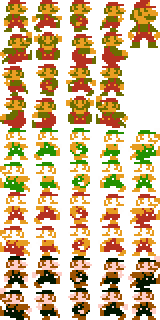
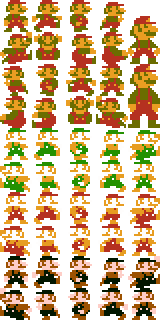
add mario transform animation

Changed region(s): [[0.7812, 0.0, 1.0, 0.4062]]

diff --git a/sprites/player.js b/sprites/player.js
@@ -6,17 +6,20 @@ const MARIO_WALK_RIGHT = 3;
 const MARIO_JUMP_RIGHT = 4;
 const MARIO_JUMP_LEFT = 5;
 const MARIO_DIE = 6;
+const MARIO_TRANSFORM = 0;
 
 const MINI_MARIO = 10;
 const SUPER_MARIO = 11;
 
 const MARIO_FLAG = 13;
 
-const STAR_TIME = 10;
+const STAR_TIME = 10; //seconds
+const TRANSFORM_TIME = 2 //seconds
 
 function Player(x, y, map) {
 	// Loading spritesheets
 	var mario = new Texture("imgs/mario.png");
+	var supermario = new Texture("imgs/supermario.png");
 	this.jumpAudio = AudioFX('sounds/smb_jump-super.wav');
 	this.diedMusic = AudioFX('sounds/smb_mariodie.wav');
 	this.stompMusic = AudioFX('sounds/smb_stomp.wav');
@@ -28,28 +31,13 @@ function Player(x, y, map) {
 	this.lives = 1;
 	this.state = MINI_MARIO;
 	this.transforming = false;
+	this.Btransform = false;
+	this.transformTime = 0;
 	this.starTime = 0;
 	this.enableStarTime = false;
 
 	// Prepare Mario sprite & its animations
 	this.sprite = new Sprite(x, y, 32, 32, 5, mario);
-
-	//miniMario to superMario
-	//this.sprite.addAnimation();
-	// this.sprite.addKeyframe(SUPER_MARIO, [0, 6 * 32, 32, 32]);
-	// this.sprite.addKeyframe(SUPER_MARIO, [0, 7 * 32, 32, 48]);
-	// this.sprite.addKeyframe(SUPER_MARIO, [0, 6 * 32, 32, 32]);
-	// this.sprite.addKeyframe(SUPER_MARIO, [0, 7 * 32, 32, 48]);
-	// this.sprite.addKeyframe(SUPER_MARIO, [0, 6 * 32, 32, 32]);
-	// this.sprite.addKeyframe(SUPER_MARIO, [0, 7 * 32, 32, 48]);
-	// this.sprite.addKeyframe(SUPER_MARIO, [0, 4 * 32, 32, 32 * 2]);
-	// this.sprite.addKeyframe(SUPER_MARIO, [0, 7 * 32, 32, 48]);
-	// this.sprite.addKeyframe(SUPER_MARIO, [0, 4 * 32, 32, 32 * 2]);
-	// this.sprite.addKeyframe(SUPER_MARIO, [0, 7 * 32, 32, 48]);
-	// this.sprite.addKeyframe(SUPER_MARIO, [0, 6 * 32, 32, 32]);
-	// this.sprite.addKeyframe(SUPER_MARIO, [0, 7 * 32, 32, 48]);
-	// this.sprite.addKeyframe(SUPER_MARIO, [0, 4 * 32, 32, 32 * 2]);
-	// this.sprite.addKeyframe(SUPER_MARIO, [0, 4 * 32, 32, 32 * 2]);
 
 	this.sprite.addAnimation();
 	this.sprite.addKeyframe(MARIO_STAND_LEFT, [96, 64, 32, 32]);
@@ -79,6 +67,25 @@ function Player(x, y, map) {
 	this.sprite.addAnimation();
 	this.sprite.addKeyframe(MARIO_FLAG, [32, 64, 32, 32]);//xinlei: si no funciona, puede ser pq array_animations[MARIOF_FLAG] no existe, OVERFLOW
 
+	this.transformSprite = new Sprite(x, y - 32, 32, 64, 7, supermario);
+	this.transformSpriteActive = false;
+	//miniMario to superMario
+	this.transformSprite.addAnimation();//add slot number 0
+	this.transformSprite.addKeyframe(MARIO_TRANSFORM, [32, 64 * 8, 32, 64]);//s
+	this.transformSprite.addKeyframe(MARIO_TRANSFORM, [0, 64 * 8, 32, 64]);//m
+	this.transformSprite.addKeyframe(MARIO_TRANSFORM, [32, 64 * 8, 32, 64]);//s
+	this.transformSprite.addKeyframe(MARIO_TRANSFORM, [0, 64 * 8, 32, 64]);//m
+	this.transformSprite.addKeyframe(MARIO_TRANSFORM, [32, 64 * 8, 32, 32]);//s
+	this.transformSprite.addKeyframe(MARIO_TRANSFORM, [0, 64 * 8, 32, 64]);//m
+	this.transformSprite.addKeyframe(MARIO_TRANSFORM, [0, 0, 32, 64]);//b
+	// this.sprite.addKeyframe(MARIO_TRANSFORM, [0, 7 * 32, 32, 48]);//m
+	// this.sprite.addKeyframe(MARIO_TRANSFORM, [0, 4 * 32, 32, 32 * 2]);//b
+	// this.sprite.addKeyframe(MARIO_TRANSFORM, [0, 7 * 32, 32, 48]);//m
+	// this.sprite.addKeyframe(MARIO_TRANSFORM, [0, 6 * 32, 32, 32]);//s
+	// this.sprite.addKeyframe(MARIO_TRANSFORM, [0, 7 * 32, 32, 48]);//m
+	// this.sprite.addKeyframe(MARIO_TRANSFORM, [0, 4 * 32, 32, 32 * 2]);//b
+	// this.sprite.addKeyframe(MARIO_TRANSFORM, [0, 4 * 32, 32, 32 * 2]);//b
+	this.transformSprite.setAnimation(MARIO_TRANSFORM);
 	this.sprite.setAnimation(MARIO_STAND_RIGHT);
 
 	// Set tilemap for collisions
@@ -110,6 +117,16 @@ var releaseDecel = 360;
 var maxWalkSpeed = 120;
 var maxRunSpeed = 240;
 
+
+Player.prototype.transformAnimation = function () {
+	this.timeFreeze = true;
+	this.transformSpriteActive = true;
+	this.active = false;
+	this.transformSprite.x = this.sprite.x;
+	this.transformSprite.y = this.sprite.y - 32;
+	this.transforming = false;
+}
+
 Player.prototype.setStarTime = function (deltaTime) {
 	var deltaSeconds = deltaTime / 1000;
 	if (this.enableStarTime) {
@@ -117,6 +134,17 @@ Player.prototype.setStarTime = function (deltaTime) {
 		console.log("star time: " + this.starTime);
 		if (this.starTime >= STAR_TIME)
 			this.changeStarAnimation(false);
+	}
+}
+
+Player.prototype.setFreezeTime = function (deltaTime) {
+	var deltaSeconds = deltaTime / 1000;
+	this.transformTime += deltaSeconds;
+	console.log("transform time: " + this.transformTime);
+	if (this.transformTime >= TRANSFORM_TIME) {	//transform time
+		this.timeFreeze = false;
+		this.Btransform = true;
+		this.transformSpriteActive = false;
 	}
 }
 
@@ -195,8 +223,13 @@ Player.prototype.changeStarAnimation = function (bStar) {
 	}
 }
 
-
 Player.prototype.update = function (deltaTime) {
+	this.setStarTime(deltaTime);
+
+	if (this.timeFreeze) {
+		this.setFreezeTime(deltaTime);
+	}
+	this.transformSpriteActive && this.transformSprite.update(deltaTime);
 
 	if (this.active) {
 		if (this.lives == 0) { // problem: always reinitiate to dying
@@ -479,8 +512,8 @@ Player.prototype.update = function (deltaTime) {
 }
 
 Player.prototype.draw = function () {
-	// this.supermario.draw();
 	this.active && this.sprite.draw();
+	this.transformSpriteActive && this.transformSprite.draw();
 }
 
 Player.prototype.collisionBox = function () {

diff --git a/sprites/superPlayer.js b/sprites/superPlayer.js
@@ -8,6 +8,7 @@ const SMARIO_JUMP_LEFT = 5;
 const SMARIO_DOWN_RIGHT = 6;
 const SMARIO_DOWN_LEFT = 7;
 
+
 function SuperPlayer(x, y, map) {
 	// Loading spritesheets
 	var mario = new Texture("imgs/supermario.png");
@@ -19,14 +20,13 @@ function SuperPlayer(x, y, map) {
 	this.lives = 1;
 	this.state = SUPER_MARIO;
 	this.transforming = false;
+	this.Btransform = false;
+	this.transformTime = 0;
 	this.starTime = 0;
 	this.enableStarTime = false;
 
 	// Prepare Mario sprite & its animations
 	this.sprite = new Sprite(x, y, 32, 64, 10, mario);
-
-	//TODO: super mario to minimario 
-	//	this.sprite.addAnimation();
 
 	this.sprite.addAnimation();
 	this.sprite.addKeyframe(SMARIO_STAND_LEFT, [0, 64, 32, 64]);
@@ -55,8 +55,22 @@ function SuperPlayer(x, y, map) {
 
 	this.sprite.addAnimation();
 	this.sprite.addKeyframe(SMARIO_DOWN_LEFT, [32 * 6, 64, 32, 32 + 16]);
-
 	//TODO: animacion freno
+
+	this.transformSprite = new Sprite(x, y - 32, 32, 64, 7, mario);
+	this.transformSpriteActive = false;
+
+	//super mario to minimario 
+	this.transformSprite.addAnimation();//add slot number 0
+	this.transformSprite.addKeyframe(MARIO_TRANSFORM, [32, 64 * 8, 32, 64]);//s
+	this.transformSprite.addKeyframe(MARIO_TRANSFORM, [0, 64 * 8, 32, 64]);//m
+	this.transformSprite.addKeyframe(MARIO_TRANSFORM, [32, 64 * 8, 32, 64]);//s
+	this.transformSprite.addKeyframe(MARIO_TRANSFORM, [0, 64 * 8, 32, 64]);//m
+	this.transformSprite.addKeyframe(MARIO_TRANSFORM, [32, 64 * 8, 32, 32]);//s
+	this.transformSprite.addKeyframe(MARIO_TRANSFORM, [0, 64 * 8, 32, 64]);//m
+	this.transformSprite.addKeyframe(MARIO_TRANSFORM, [0, 0, 32, 64]);//b
+
+	this.transformSprite.setAnimation(MARIO_TRANSFORM);
 	this.sprite.setAnimation(SMARIO_STAND_RIGHT);
 
 	// Set tilemap for collisions
@@ -85,6 +99,15 @@ var releaseDecel = 360;
 var maxWalkSpeed = 120;
 var maxRunSpeed = 240;
 
+SuperPlayer.prototype.transformAnimation = function () {
+	this.timeFreeze = true;
+	this.transformSpriteActive = true;
+	this.active = false;
+	this.transformSprite.x = this.sprite.x;
+	this.transformSprite.y = this.sprite.y + 32;
+	this.transforming = false;
+}
+
 SuperPlayer.prototype.setStarTime = function (deltaTime) {
 	var deltaSeconds = deltaTime / 1000;
 	if (this.enableStarTime) {
@@ -92,6 +115,17 @@ SuperPlayer.prototype.setStarTime = function (deltaTime) {
 		console.log("star time: " + this.starTime);
 		if (this.starTime >= STAR_TIME)
 			this.changeStarAnimation(false);
+	}
+}
+
+SuperPlayer.prototype.setFreezeTime = function (deltaTime) {
+	var deltaSeconds = deltaTime / 1000;
+	this.transformTime += deltaSeconds;
+	console.log("transform time: " + this.transformTime);
+	if (this.transformTime >= TRANSFORM_TIME) {	//transform time
+		this.timeFreeze = false;
+		this.Btransform = true;
+		this.transformSpriteActive = false;
 	}
 }
 
@@ -193,6 +227,11 @@ SuperPlayer.prototype.changeStarAnimation = function (bStar) {
 
 SuperPlayer.prototype.update = function (deltaTime) {
 	this.setStarTime(deltaTime);
+
+	if (this.timeFreeze) {
+		this.setFreezeTime(deltaTime);
+	}
+	this.transformSpriteActive && this.transformSprite.update(deltaTime);
 
 	if (this.active) {
 		if (this.lives == 0) { // problem: always reinitiate to dying
@@ -453,6 +492,7 @@ SuperPlayer.prototype.update = function (deltaTime) {
 
 SuperPlayer.prototype.draw = function () {
 	this.active && this.sprite.draw();
+	this.transformSpriteActive && this.transformSprite.draw();
 }
 
 SuperPlayer.prototype.collisionBox = function () {

diff --git a/blockAnimation.js b/blockAnimation.js
@@ -11,8 +11,6 @@ function BlockAnimation(map, level) {
 	this.coinColisionAudio = AudioFX('sounds/smb_coin.wav');
 	this.breakBlockAudio = AudioFX('sounds/smb_breakblock.wav');
 	this.powerupAudio = AudioFX('sounds/smb_powerup.wav');
-	//TODO: star time audio
-
 }
 
 BlockAnimation.prototype.update = function (deltaTime) {
@@ -59,7 +57,7 @@ BlockAnimation.prototype.createQueryBlockAnimation = function (OPosX, OPosY, til
 			if (tiledId == 2 && this.level == 1) {
 				block = new QueryBlock(OPosX + i * tileX, OPosY + j * tileY, this.map);
 				queryblock.push(block);
-				if ((i == 22 && j == 9) || (i == 24 && j == 5)) {
+				if ((i == 22 && j == 9) || (i == 24 && j == 5) || (i == 58 && j == 9)) {
 					block.powerups = 1;
 				}
 			}
@@ -111,10 +109,10 @@ BlockAnimation.prototype.checkCollision = function (player) {
 
 	this.queryblock.forEach(queryblock => {
 		if (player.state == SUPER_MARIO && queryblock.powerups == 1) {
-			queryblock.powerups = 2;//star
+			queryblock.powerups = 2;	//star
 		}
 		else if (player.state == MINI_MARIO && queryblock.powerups == 2) {
-			queryblock.powerups = 1;//mushroom
+			queryblock.powerups = 1;	//mushroom
 		}
 
 		if (playerColisionTop.intersect(queryblock.collisionDown())) {

diff --git a/scene.js b/scene.js
@@ -250,7 +250,10 @@ Scene.prototype.update = function (deltaTime) {
 			//console.log("scene: got flag_points:",flag_points);
 		}
 
-		if (this.player.transforming) {
+		if (this.player.transforming)
+			this.player.transformAnimation();
+
+		if (this.player.Btransform) {
 			if (this.player.state == MINI_MARIO) {
 				this.player.active = false;
 				this.player = new Player(this.player.sprite.x, this.player.sprite.y + 32, this.map);
@@ -259,13 +262,10 @@ Scene.prototype.update = function (deltaTime) {
 				this.player.active = false;
 				this.player = new SuperPlayer(this.player.sprite.x, this.player.sprite.y - 32, this.map);
 			}
-
 		}
-
 	}
 	else {
 		this.player.update(deltaTime);
-
 	}
 	this.timeFreeze = this.player.timeFreeze;
 
@@ -386,7 +386,6 @@ Scene.prototype.draw = function () {
 	//Draw status text
 	this.drawStatusText(this.gameTime);
 	this.statusCoin.draw();
-
 }
 
 Scene.prototype.checkNextScene = function () {

diff --git a/game.js b/game.js
@@ -53,7 +53,7 @@ function frameUpdate(timestamp) {
 		previousTimestamp += TIME_PER_FRAME;
 		deltaTime = timestamp - previousTimestamp;
 	}
-	if (bUpdated){
+	if (bUpdated) {
 		//scene.draw();
 		sceneManager.draw();
 	}

diff --git a/README.md b/README.md
@@ -49,15 +49,7 @@ XINLEI:
 *Layer[2]: query block(2), ladrillo(3), coins(36)... static sprites*
 
 - powerups moving up from queryblock
-- supermario does not die, remove animation of dying
-
-starmario => from minimario or super mario
-supermario => only from minimario
-
-minimario => mushroom or star
-supermario => star
-
-SEARCH "TODO"
+- probar supermario to minimario
 
 - ??:
 - collision top to blocks should be more narrow, mario cant pass through jumping to a 1 space block(design bug)
@@ -65,7 +57,8 @@ SEARCH "TODO"
 - when star mode mario kills all enemys by touch
 - supermario's game over
 - when game over, turn off the main theme and turn on gameover sound
-
+- take flag feature for supermario
+- supermario does not die, he transforms to minimario -> remove animation of dying
 
   Paco
 - Tiempo
